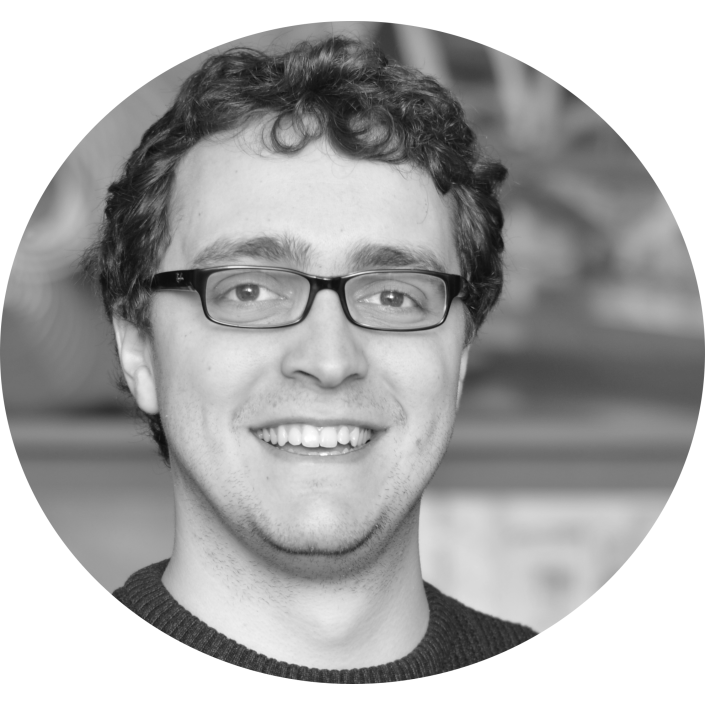
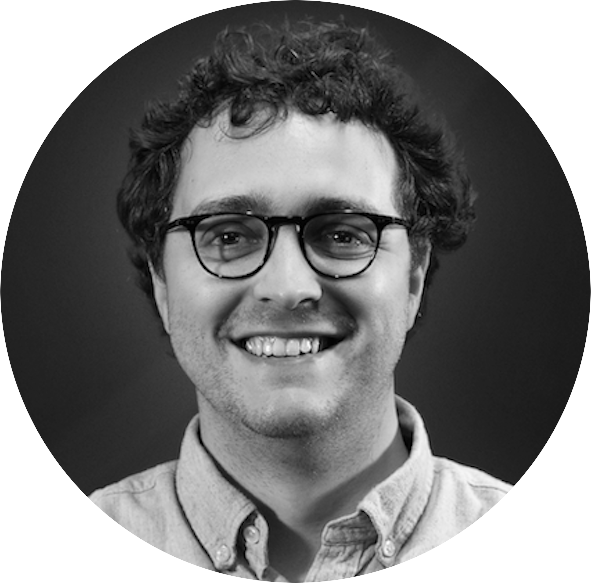
Website updates (#1)
* Update favico

* Update cover picture

* New role - website content update

diff --git a/index.html b/index.html
@@ -11,41 +11,31 @@
         <img src="images/me.png">
         <p id="name">Fabio <span id="contrast">Buso</span></p>
         <div id="social">
-          <a href="https://twitter.com/SirOibaf"><img src="images/twitter.png"></a>
-          <a href="https://github.com/siroibaf"><img src="images/github.png"></a>
           <a href="https://linkedin.com/in/fabiobuso"><img src="images/linkedin.png"></a>
         </div>
       </div>
       <div id="bottom">
-          <p>Hi there! I'm Fabio.</p>
+          <p>I'm a Senior Machine Learning Engineer at <a href="https://nextory.com">Nextory</a>. In my current role I focus on search and recommendation — helping book lovers find their next book!</p>
 
-          <p>I'm a Software Engineer based in Stockholm. I'm head of engineering at <a href="https://hopsworks.ai">Hopsworks AB</a> the company developing the <a href="http://hopsworks.ai">Hopsworks</a> feature store.</p>
-
-          <p>Hopsworks is a Feature Store providing data scientists with a unique platform to govern, share and make features available for training models, batch scoring and building real time prediction services.
-            Hopsworks sits in between the modern data stack (e.g. Snowflake, Data Lakes, Streams) and the data scientists. It provides them with clear and python centric APIs to tap into the vast amount of existing enterprise data and allows them to build and productionize models with the tools they are most familiar with (e.g. Python, Pandas, PyTorch). If you are curious, you can start building on Hopsworks today at <a href="http://app.hopsworks.ai">https://app.hopsworks.ai</a>
-          </p>
-
-          <p>In my current role I'm responsible for the design and implementation of the feature store component. I spend a significant amount of my time interacting with customers and users to understand their needs and requirements, and then coordinate the implementation. Since February 2022 I also sit on the board of the company</p>
+          <p>I was previously head of engineering at <a href="https://hopsworks.ai">Hopsworks</a>, the company developing the Hopsworks feature store. I led the design and implementation of the feature store component, working closely with customers to shape requirements and drive implementation.</p>
 
           <p>
-            Sometimes I travel the world to talk about Hopsworks. Here's some of the most recent talks I gave:
+            I've spoken at several conferences on machine learning and distributed systems — here's a curated list of talks:
             <ul>
               <li><a href="https://www.youtube.com/watch?v=-_v35s12JXw">Real-time predictions with the online feature store - Feature Store Global Meetup 05/2021</a></li>
               <li><a href="https://www.youtube.com/watch?v=TOBBFRUYfUU">Real-time Feature Engineering with Apache Spark Streaming and Hof - Spark + AI Summit 2020</a></li>
               <li><a href="https://www.youtube.com/watch?v=uDyQqDCVjfA">Building a Feature Store around Dataframes and Apache Spark - Spark + AI Summit 2020</a></li>
               <li><a href="https://www.youtube.com/watch?v=gtrZgbyPWfc">Distributed TensorFlow on Hops - OSCON 2018</a></li>
               <li><a href="https://www.youtube.com/watch?v=3-tn9jFy3yM">Scaling Deep Learning to hundreds of GPUs on HopsHadoop - FOSDEM 2018</a></li>
-              <li><a href="https://www.re-work.co/events/deep-learning-summit-boston-2018/schedule">ReWork Deep Learning Summit</a></li>
             </ul>
           </p>
 
           <p>I graduated from the <a href="https://masterschool.eitdigital.eu/programmes/ccs/">EIT Digital Master School</a> with a major in Cloud Computing and Services with a minor in Innovation and Entrepreneurship. I spent my first year at TU Berlin and the second one at KTH Stockholm.
-          During my master thesis I worked on extending the Apache Hive metastore to achieve strong consistency between the metadata on the database and the files on HopsFS. You can read my <a href="http://kth.diva-portal.org/smash/record.jsf?pid=diva2%3A1149002&dswid=-3913">Master Thesis</a> for more details.
           </p>
 
-          <p>I'm passionate about technology and I love to get my hands dirty, you can take a look at some of my side projects on my <a href="https://github.com/siroibaf">Github</a> profile. </p>
+          <p>I'm passionate about technology and I love tinkering — you can take a look at some of my side projects on my <a href="https://github.com/siroibaf">Github</a> profile.</p>
 
-          <p>You can get in touch with me by dropping a line at {surname.name [at] gmail.com} or using <a href="https://linkedin.com/in/fabiobuso">Linkedin</a>.</p>
+          <p>You can get in touch with me by dropping a line at buso.fabio [at] gmail.com or using <a href="https://linkedin.com/in/fabiobuso">Linkedin</a>.</p>
       </div>
     </div>
   </body>
